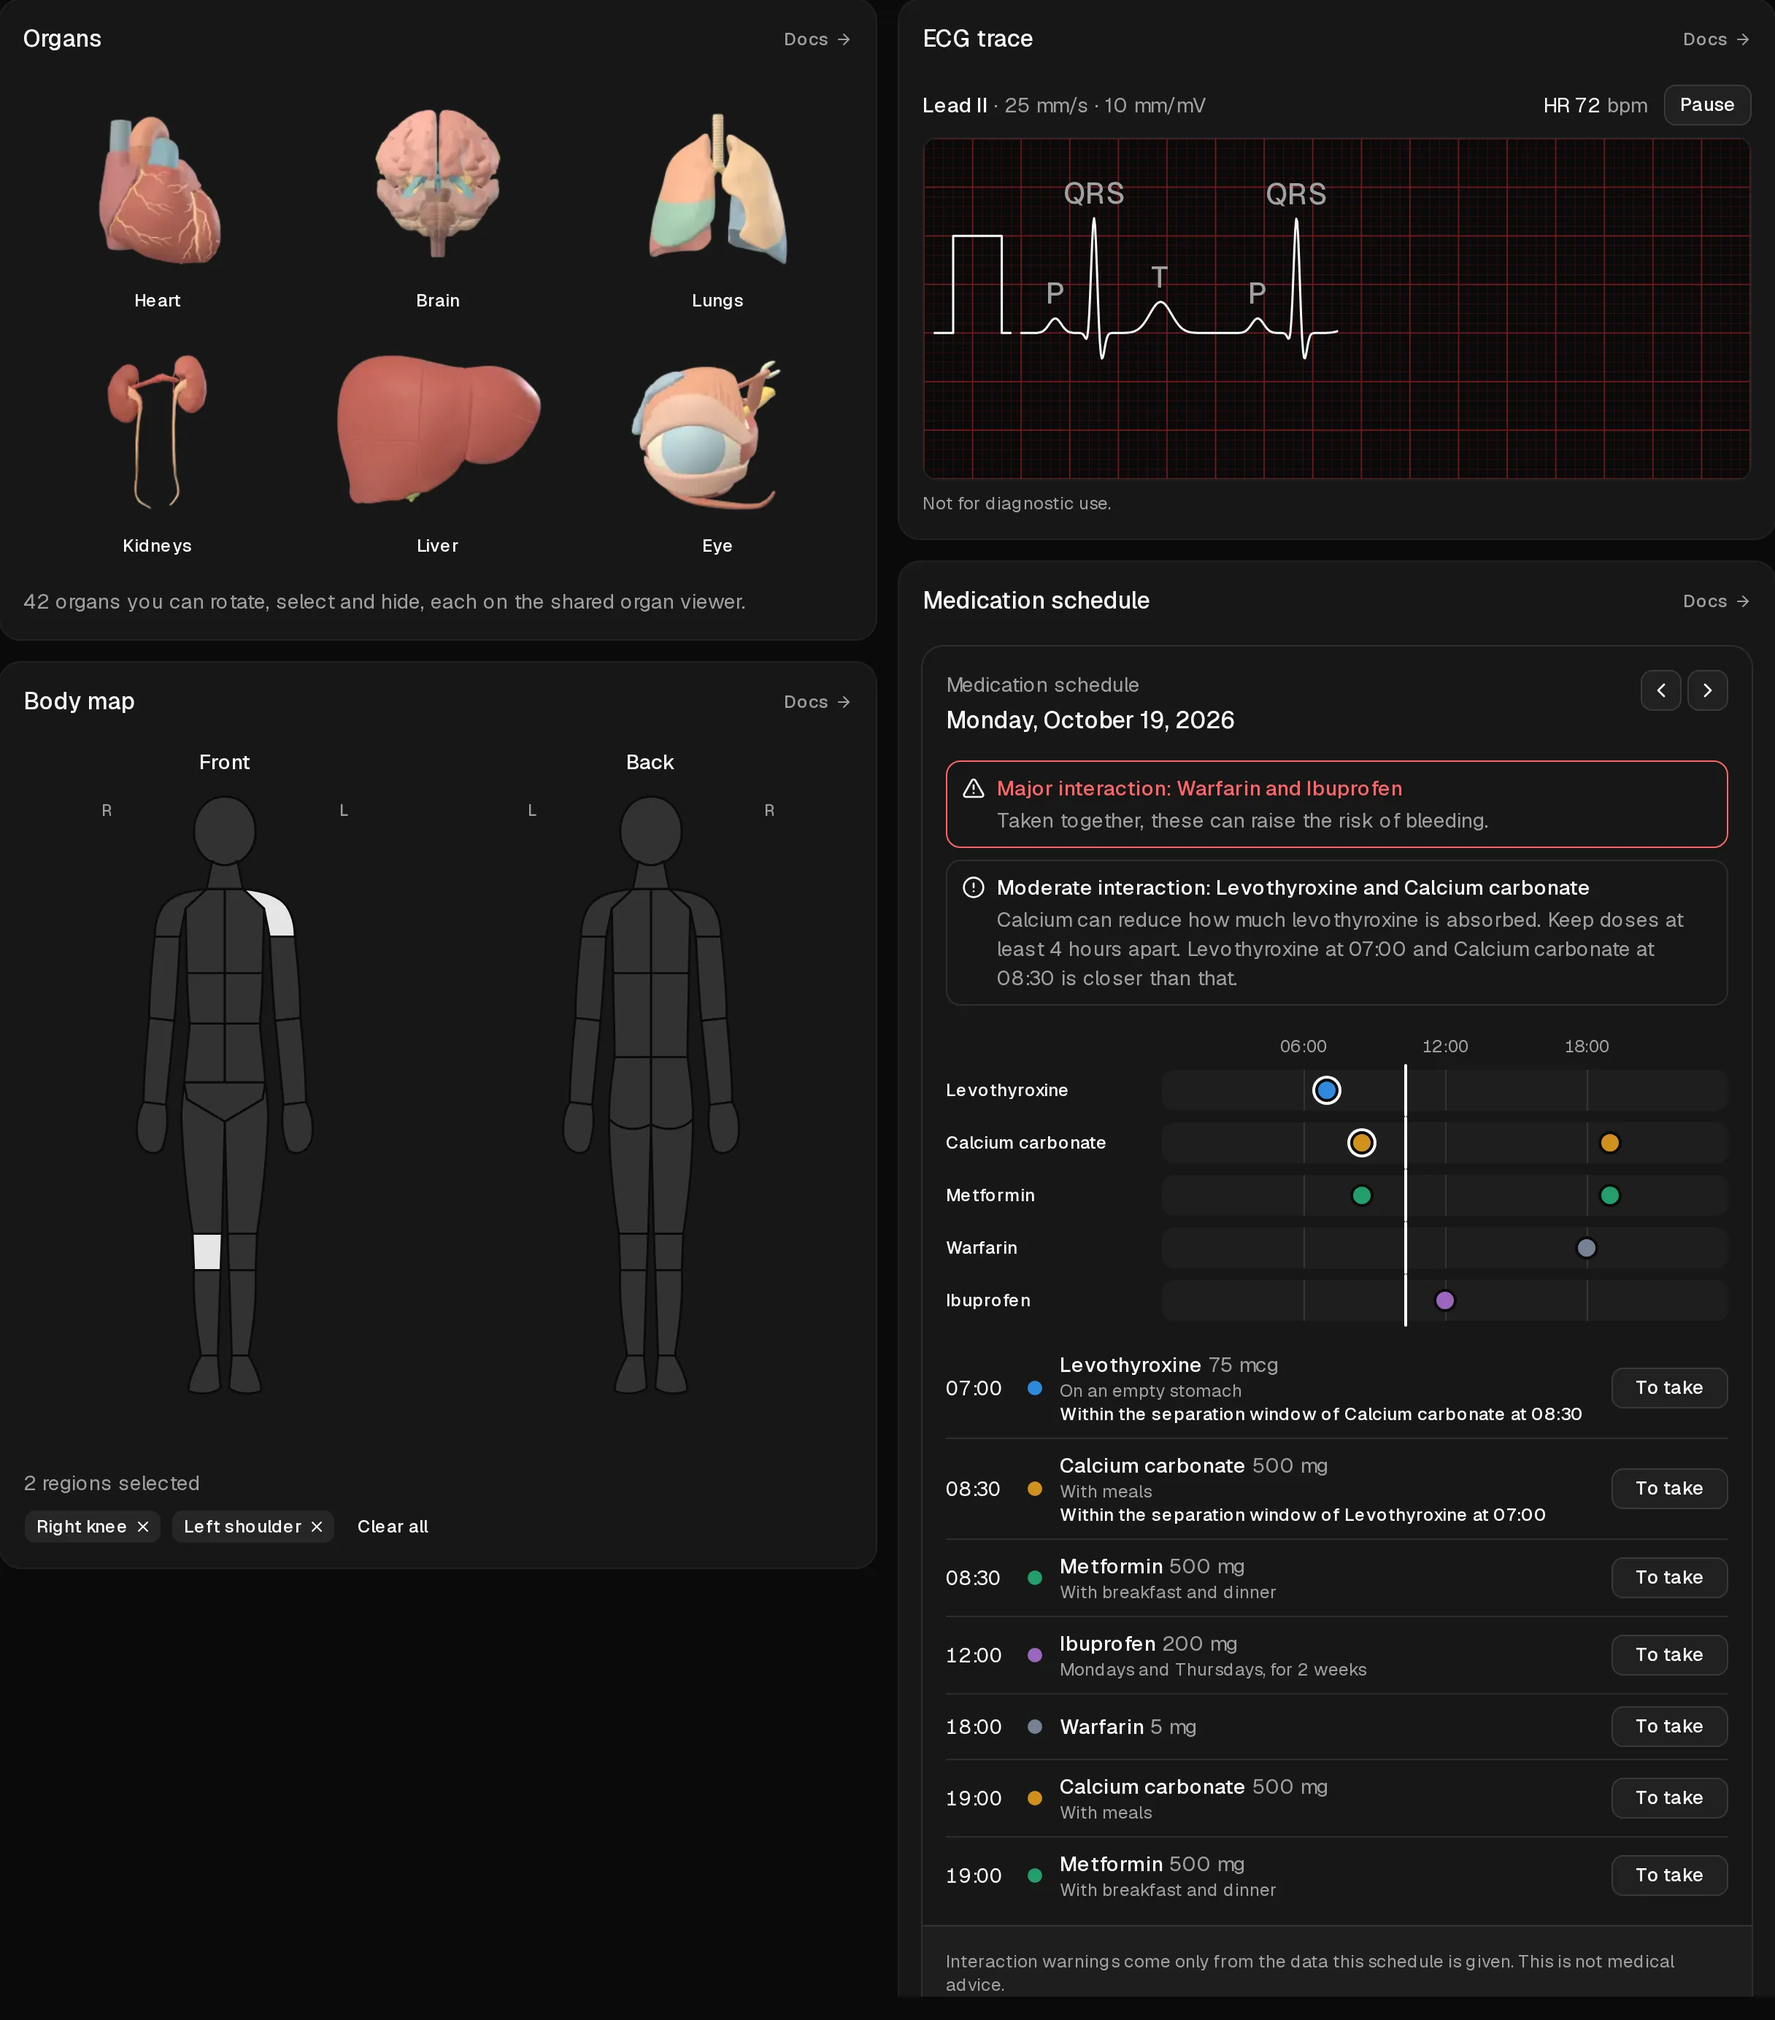
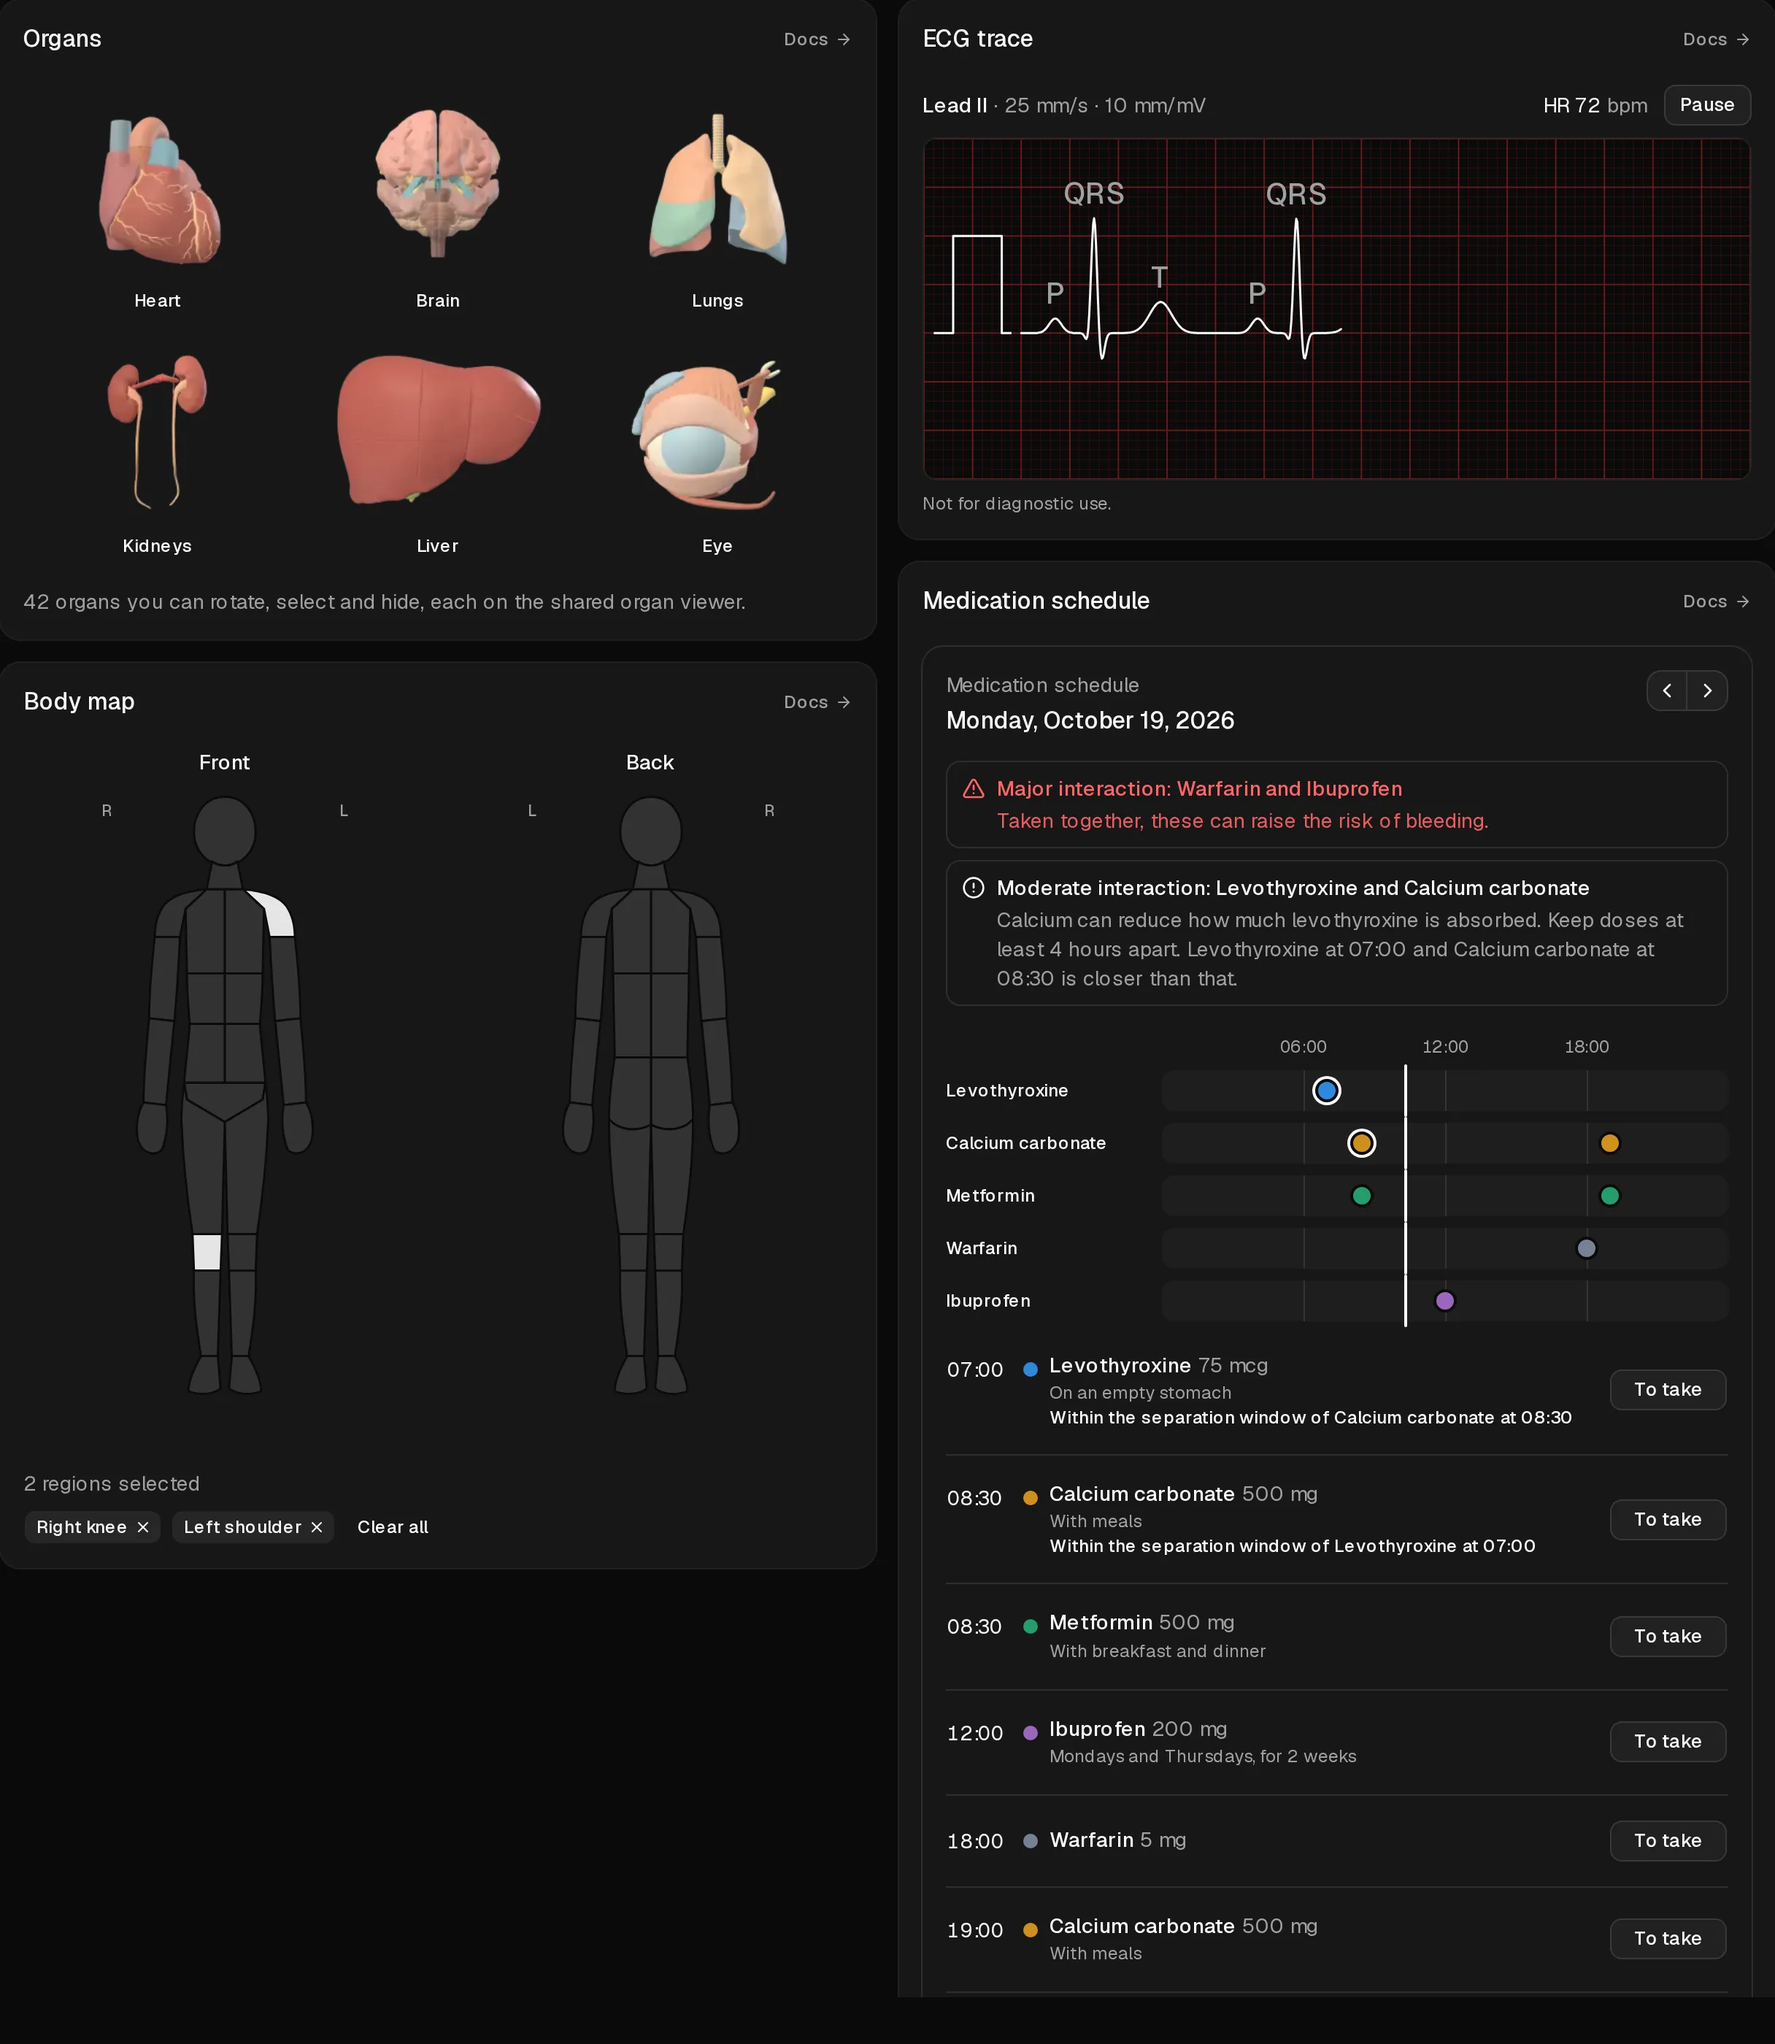
Medication schedule: use shadcn's destructive Alert for major interactions
The override said the destructive variant fell below AA contrast. On the
site's theme its description measures 4.54:1 in light mode and 5.23:1 in
dark, so major interactions now use the variant as shadcn ships it, and
the icon and title overrides go. The homepage's phone pictures are
retaken.

diff --git a/packages/registry/registry/base-nova/medication-schedule/medication-schedule.tsx b/packages/registry/registry/base-nova/medication-schedule/medication-schedule.tsx
@@ -252,7 +252,6 @@ function SeverityIcon({ severity }: { severity: InteractionSeverity }) {
           phosphor="WarningIcon"
           remixicon="RiErrorWarningLine"
           aria-hidden="true"
-          className="text-destructive"
         />
       )
     case "moderate":
@@ -380,21 +379,15 @@ export function MedicationSchedule({
                 (conflict) => conflict.interaction === interaction
               )
               return (
-                // shadcn's destructive variant tints the description below
-                // AA contrast, so major warnings mark the border and title.
                 <Alert
                   key={interaction.id}
                   data-severity={interaction.severity}
-                  className={cn(
-                    interaction.severity === "major" && "border-destructive"
-                  )}
+                  variant={
+                    interaction.severity === "major" ? "destructive" : "default"
+                  }
                 >
                   <SeverityIcon severity={interaction.severity} />
-                  <AlertTitle
-                    className={cn(
-                      interaction.severity === "major" && "text-destructive"
-                    )}
-                  >
+                  <AlertTitle>
                     {severityLabel[interaction.severity]} interaction:{" "}
                     {names(interaction.medicationIds, index)}
                   </AlertTitle>

diff --git a/apps/web/app/docs/components/medication-schedule/page.tsx b/apps/web/app/docs/components/medication-schedule/page.tsx
@@ -139,8 +139,8 @@ export default function Page() {
           or more medication IDs, a <code>severity</code> of <code>minor</code>,{" "}
           <code>moderate</code> or <code>major</code>, and a{" "}
           <code>summary</code>. A warning appears on days when every medication
-          it names is due, most severe first, and major ones get a destructive
-          border and title. Give <code>separationHours</code> to flag same-day
+          it names is due, most severe first, and major ones use shadcn&apos;s
+          destructive alert. Give <code>separationHours</code> to flag same-day
           doses of those medications that are closer than that, on the timeline
           and in the dose list.
         </p>
